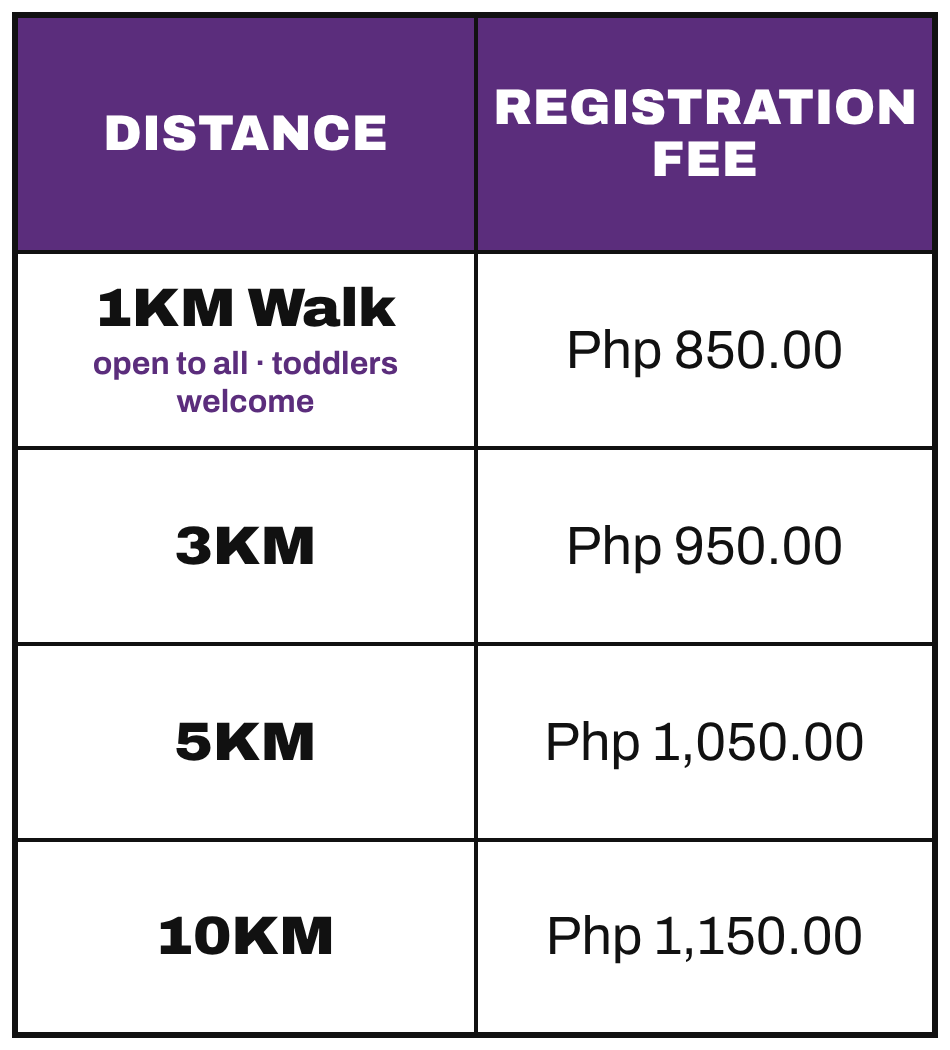
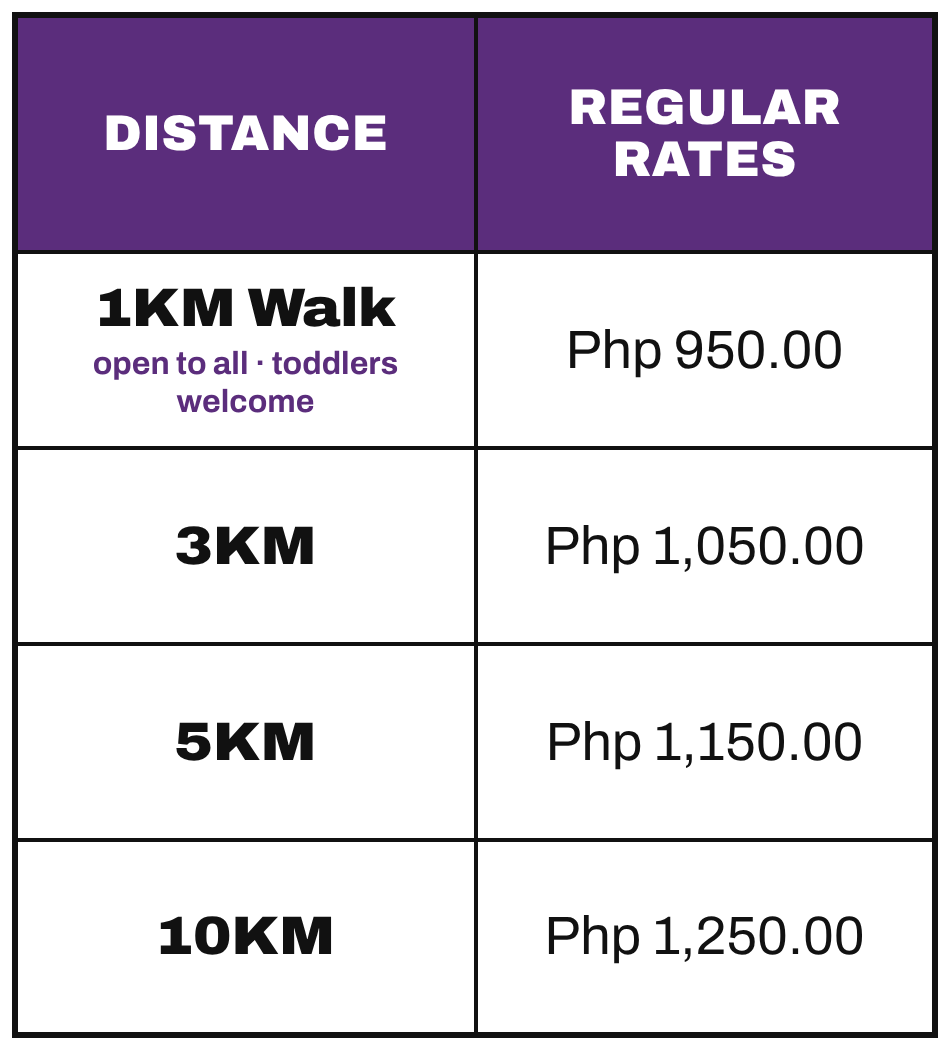
Show the regular rates: 950, 1,050, 1,150 and 1,250
The fee list, the FAQ table and its data, the event data, the share card
and the fee poster (now headed "Regular rates") all carry the regular
rates again. The 1K walk stays described as open to everyone.

Claude-Session: https://claude.ai/code/session_01VsF88dpZzC8wTGcD9DKRMN

diff --git a/public/index.html b/public/index.html
@@ -39,7 +39,7 @@
 <meta property="og:image:type" content="image/jpeg">
 <meta property="og:image:width" content="1200">
 <meta property="og:image:height" content="630">
-<meta property="og:image:alt" content="Southville Run For A Cause 2026, November 29 at Central Park, Filinvest, Alabang. 1K walk ₱850, 3K ₱950, 5K ₱1,050, 10K ₱1,150.">
+<meta property="og:image:alt" content="Southville Run For A Cause 2026, November 29 at Central Park, Filinvest, Alabang. 1K walk ₱950, 3K ₱1,050, 5K ₱1,150, 10K ₱1,250.">
 <meta name="twitter:card" content="summary_large_image">
 <meta name="twitter:title" content="Southville Run For A Cause 2026 · Register now">
 <meta name="twitter:description" content="1K walk, 3K, 5K and 10K · Sunday, November 29, 2026 · Central Park, Filinvest, Alabang.">
@@ -78,10 +78,10 @@
     "url": "https://funrun.edgarr.dev/"
   },
   "offers": [
-    { "@type": "Offer", "name": "1K Walk", "price": "850", "priceCurrency": "PHP", "availability": "https://schema.org/InStock", "url": "https://funrun.edgarr.dev/" },
-    { "@type": "Offer", "name": "3K", "price": "950", "priceCurrency": "PHP", "availability": "https://schema.org/InStock", "url": "https://funrun.edgarr.dev/" },
-    { "@type": "Offer", "name": "5K", "price": "1050", "priceCurrency": "PHP", "availability": "https://schema.org/InStock", "url": "https://funrun.edgarr.dev/" },
-    { "@type": "Offer", "name": "10K", "price": "1150", "priceCurrency": "PHP", "availability": "https://schema.org/InStock", "url": "https://funrun.edgarr.dev/" }
+    { "@type": "Offer", "name": "1K Walk", "price": "950", "priceCurrency": "PHP", "availability": "https://schema.org/InStock", "url": "https://funrun.edgarr.dev/" },
+    { "@type": "Offer", "name": "3K", "price": "1050", "priceCurrency": "PHP", "availability": "https://schema.org/InStock", "url": "https://funrun.edgarr.dev/" },
+    { "@type": "Offer", "name": "5K", "price": "1150", "priceCurrency": "PHP", "availability": "https://schema.org/InStock", "url": "https://funrun.edgarr.dev/" },
+    { "@type": "Offer", "name": "10K", "price": "1250", "priceCurrency": "PHP", "availability": "https://schema.org/InStock", "url": "https://funrun.edgarr.dev/" }
   ]
 }
 </script>
@@ -122,7 +122,7 @@
       "name": "What are the race categories and registration rates?",
       "acceptedAnswer": {
         "@type": "Answer",
-        "text": "1KM Walk (open to all, toddlers welcome): ₱850.00; 3KM Run: ₱950.00; 5KM Run: ₱1,050.00; 10KM Run: ₱1,150.00."
+        "text": "1KM Walk (open to all, toddlers welcome): ₱950.00; 3KM Run: ₱1,050.00; 5KM Run: ₱1,150.00; 10KM Run: ₱1,250.00."
       }
     },
     {
@@ -471,15 +471,15 @@ We run because every step can make a difference.
              screen reader and a phone on a slow connection cannot read a
              picture. Keep them in step with the poster and with the event
              details in the <head>. -->
-        <ul class="race-chips race-fees" aria-label="Registration fees">
-          <li class="race-chip"><b>1K Walk</b> ₱850</li>
-          <li class="race-chip"><b>3K</b> ₱950</li>
-          <li class="race-chip"><b>5K</b> ₱1,050</li>
-          <li class="race-chip"><b>10K</b> ₱1,150</li>
+        <ul class="race-chips race-fees" aria-label="Regular registration rates">
+          <li class="race-chip"><b>1K Walk</b> ₱950</li>
+          <li class="race-chip"><b>3K</b> ₱1,050</li>
+          <li class="race-chip"><b>5K</b> ₱1,150</li>
+          <li class="race-chip"><b>10K</b> ₱1,250</li>
         </ul>
 
         <p class="race-note">
-          Registration fees, in Philippine pesos. The 1K walk is open to everyone, toddlers welcome.
+          Regular rates, in Philippine pesos. The 1K walk is open to everyone, toddlers welcome.
           Questions about the race kit, schedule or parking? <a href="#faq">See the FAQ</a>.
         </p>
       </div>
@@ -665,12 +665,12 @@ We run because every step can make a difference.
           <summary>What are the race categories and registration rates?</summary>
           <div class="faq-a">
             <table class="faq-table">
-              <thead><tr><th scope="col">Race category</th><th scope="col">Registration fee</th></tr></thead>
+              <thead><tr><th scope="col">Race category</th><th scope="col">Regular rate</th></tr></thead>
               <tbody>
-                <tr><th scope="row">1KM Walk <span class="faq-sub">(open to all, toddlers welcome)</span></th><td>₱850.00</td></tr>
-                <tr><th scope="row">3KM Run</th><td>₱950.00</td></tr>
-                <tr><th scope="row">5KM Run</th><td>₱1,050.00</td></tr>
-                <tr><th scope="row">10KM Run</th><td>₱1,150.00</td></tr>
+                <tr><th scope="row">1KM Walk <span class="faq-sub">(open to all, toddlers welcome)</span></th><td>₱950.00</td></tr>
+                <tr><th scope="row">3KM Run</th><td>₱1,050.00</td></tr>
+                <tr><th scope="row">5KM Run</th><td>₱1,150.00</td></tr>
+                <tr><th scope="row">10KM Run</th><td>₱1,250.00</td></tr>
               </tbody>
             </table>
           </div>

diff --git a/assets-src/race-rates.html b/assets-src/race-rates.html
@@ -26,12 +26,12 @@ tbody td{font-weight:400;font-size:27px;color:#111;padding:10px 8px}
 </head>
 <body>
 <table>
-  <thead><tr><th>Distance</th><th>Registration<br>Fee</th></tr></thead>
+  <thead><tr><th>Distance</th><th>Regular<br>Rates</th></tr></thead>
   <tbody>
-    <tr><th>1KM Walk<small>open to all · toddlers welcome</small></th><td>Php 850.00</td></tr>
-    <tr><th>3KM</th><td>Php 950.00</td></tr>
-    <tr><th>5KM</th><td>Php 1,050.00</td></tr>
-    <tr><th>10KM</th><td>Php 1,150.00</td></tr>
+    <tr><th>1KM Walk<small>open to all · toddlers welcome</small></th><td>Php 950.00</td></tr>
+    <tr><th>3KM</th><td>Php 1,050.00</td></tr>
+    <tr><th>5KM</th><td>Php 1,150.00</td></tr>
+    <tr><th>10KM</th><td>Php 1,250.00</td></tr>
   </tbody>
 </table>
 </body>

diff --git a/assets-src/share-image.html b/assets-src/share-image.html
@@ -65,10 +65,10 @@ body::before{
   </div>
   <div class="fees">
     <h2>1K · 3K · 5K · 10K</h2>
-    <div class="row"><b>1K Walk</b><span>₱850</span></div>
-    <div class="row"><b>3K</b><span>₱950</span></div>
-    <div class="row"><b>5K</b><span>₱1,050</span></div>
-    <div class="row"><b>10K</b><span>₱1,150</span></div>
+    <div class="row"><b>1K Walk</b><span>₱950</span></div>
+    <div class="row"><b>3K</b><span>₱1,050</span></div>
+    <div class="row"><b>5K</b><span>₱1,150</span></div>
+    <div class="row"><b>10K</b><span>₱1,250</span></div>
     <div class="cta">Register now</div>
     <div class="url">funrun.edgarr.dev</div>
   </div>
